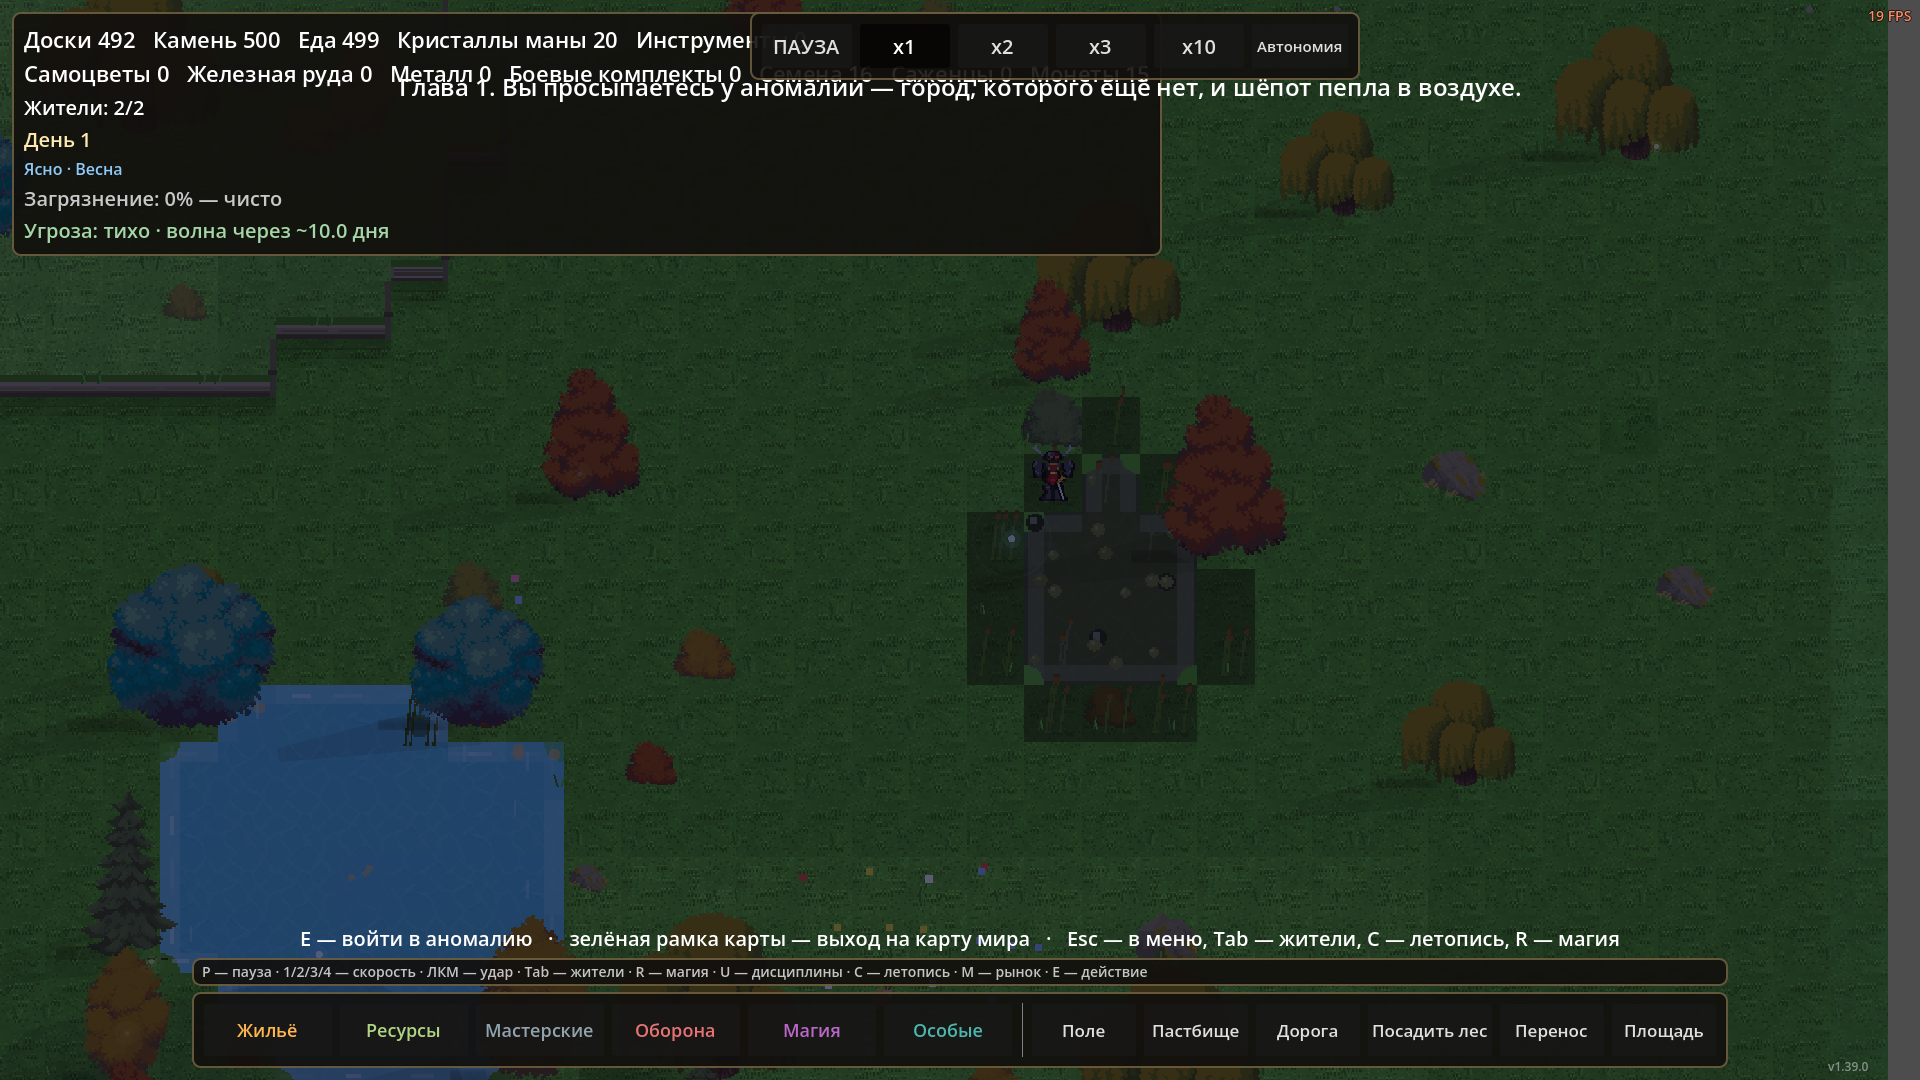
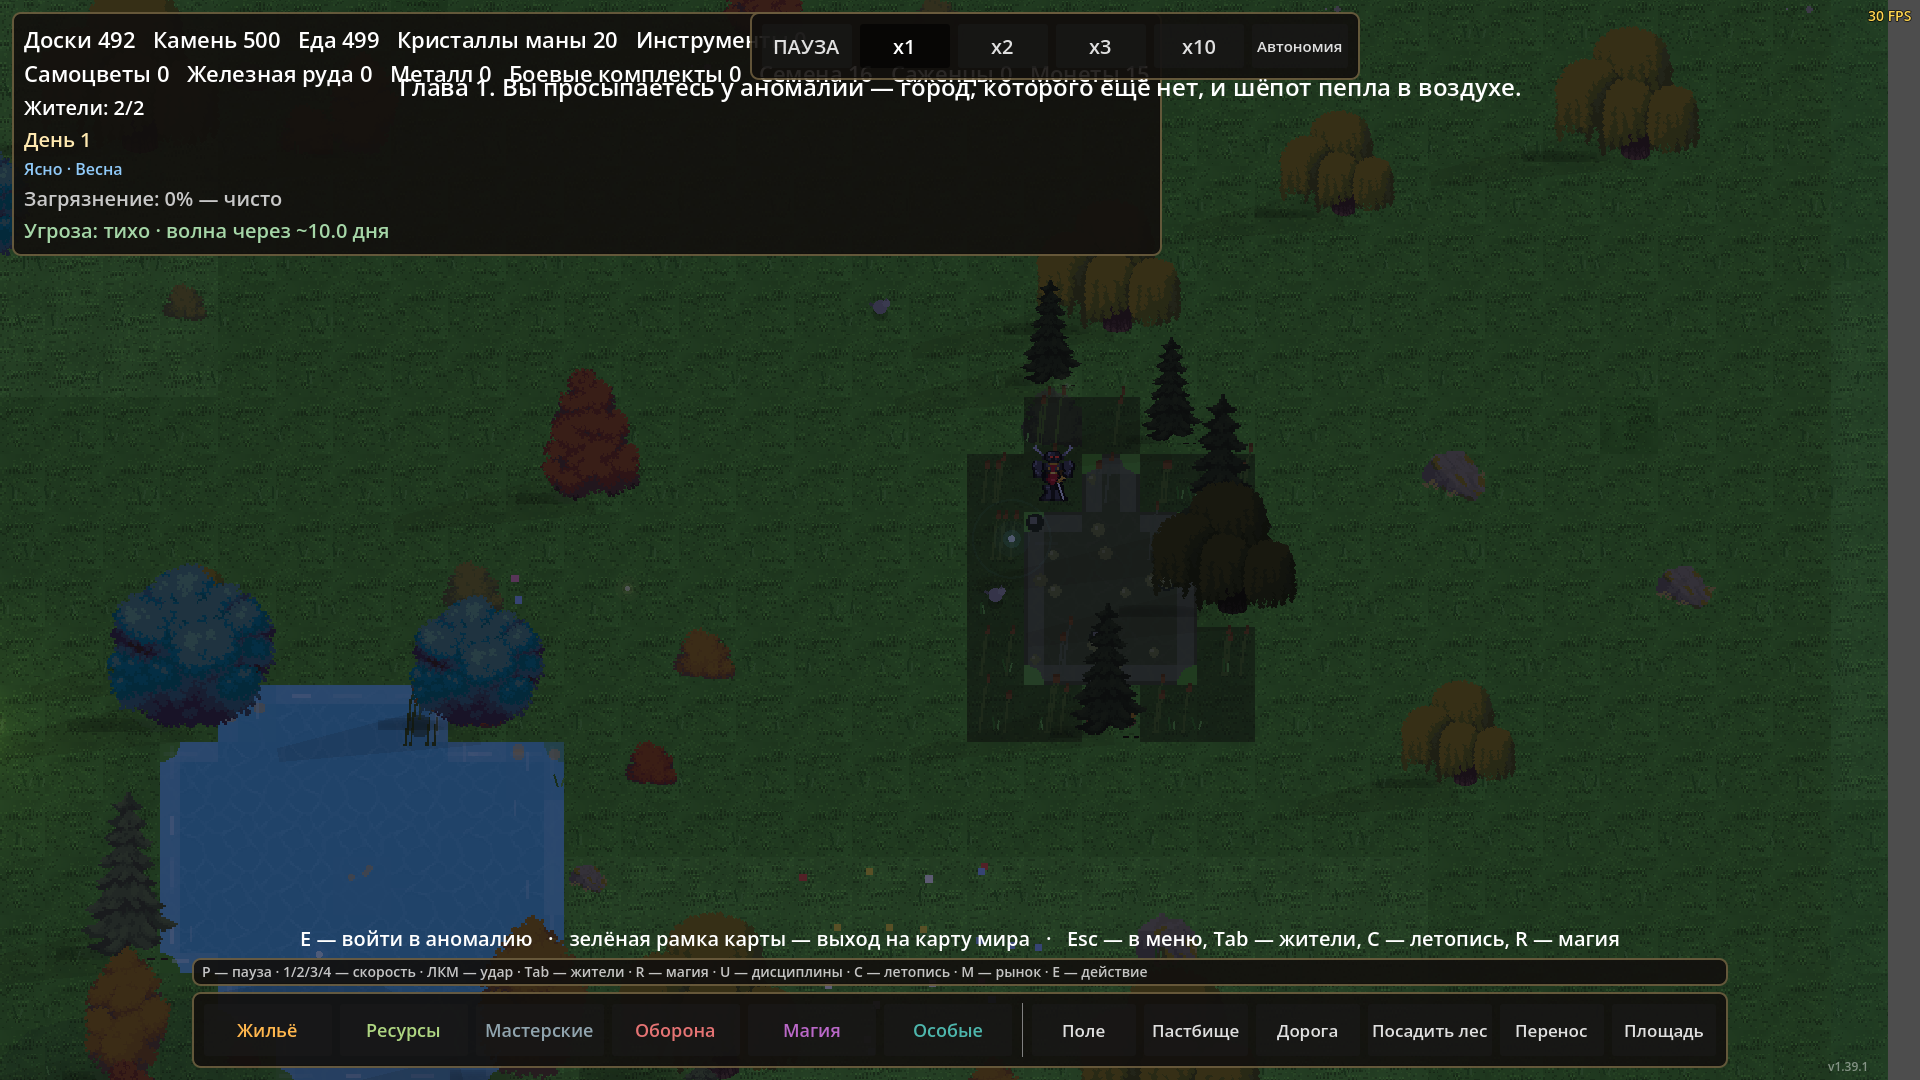
v1.39.2: болото — кольцо тёмной земли сплошное (8 направлений), тёмный лес болот
Фидбек заказчика (скриншот): «болото практически хорошо; тёмная земля
должна полностью окружать болото, и вот такие тёмные деревья должны
расти неподалёку».

- Кольцо тёмной земли СПЛОШНОЕ (water_terrain.gd): проверка соседства
  болота по 8 направлениям вместо 4 — диагональные углы не рвутся.
- Тёмный лес болот: генерация (city_map.gd) сажает деревья с шансом 0.3
  на траве в 1-2 тайлах от воды болота (малые/средние — топь не глушится);
  city_view.gd рендерит деревья у болот тёмными вариантами
  (tree2_dark_pine 80% / tree2_dark_willow 20% — ива/сосна пака
  ForgottenMemories, затемнение x0.55, приглушение, сдвиг в хвойную
  зелень; tools/make_nature2.py). Деревья настоящие (TILE_TREE) —
  рубятся, входят в «гнев леса».
- Тесты: +3 проверки (кольцо полное, лес у болот посажен, тёмные спрайты
  грузятся), полный прогон зелёный (0 FAIL).

Следующий шаг: приёмка «Природы 2.0» целиком; после — этап 2 «Глобальная
карта v2» программы «Мир v2» (PLAN.md, СЛЕДУЮЩИЙ-ШАГ.md).

diff --git a/tools/make_nature2.py b/tools/make_nature2.py
@@ -326,6 +326,27 @@ def build_rock_sprites():
             print("  %s %s" % (name, im.size))
 
 
+def darken(img, mult=0.55, sat=0.65, tint=(0.86, 0.95, 0.82)):
+    """Тёмное болотное дерево: приглушить, затемнить, сдвиг в хвойную
+    зелень (референс заказчика: тёмные деревья у болот)."""
+    a = np.array(img.convert("RGBA"), dtype=float)
+    rgb = a[:, :, :3]
+    gray = rgb @ np.array([0.299, 0.587, 0.114])
+    rgb = gray[:, :, None] + (rgb - gray[:, :, None]) * sat
+    rgb = rgb * mult * np.array(tint)
+    return Image.fromarray(np.dstack([np.clip(rgb, 0, 255), a[:, :, 3:4]]).astype(np.uint8), "RGBA")
+
+
+def build_dark_trees():
+    """Тёмные деревья для окружения болот (v1.39.2): ива и сосна пака,
+    сильно затемнённые и приглушённые."""
+    for src, out in [("tree2_willow", "tree2_dark_willow"),
+                     ("tree2_pine", "tree2_dark_pine")]:
+        im = Image.open(os.path.join(OUT_ENV, src + ".png")).convert("RGBA")
+        darken(im).save(os.path.join(OUT_ENV, out + ".png"))
+        print("  %s.png" % out)
+
+
 # ---------- превью ----------
 def build_preview():
     names = ["n2_water_lake", "n2_water_river", "n2_water_swamp"]
@@ -365,6 +386,8 @@ def main():
         build_rock_sprites()
     else:
         print("Пак скал не найден, пропускаю: %s" % ROCK_PACK)
+    print("Тёмные деревья болот ->")
+    build_dark_trees()
     build_preview()
     print("Готово.")
 

diff --git a/CHANGELOG_E2.md b/CHANGELOG_E2.md
@@ -1201,6 +1201,29 @@ README.md.**
 нижнем углу города) и посмотреть; затем этап 2 «Глобальная карта v2»
 программы «Мир v2» — НОВЫЙ чат.**
 
+## v1.39.2 (2026-10-30): правки приёмки — кольцо тёмной земли у болот сплошное, тёмный лес болот
+
+Фидбек заказчика (скриншот болота): «болото практически хорошо; тёмная
+земля должна полностью окружать болото, и вот такие тёмные деревья
+должны расти неподалёку».
+
+- **Кольцо тёмной земли — СПЛОШНОЕ** (water_terrain.gd): раньше диагональные
+  соседи болота не красились (проверка только по 4 направлениям) — углы
+  рвались; теперь проверка по 8 направлениям, кольцо без разрывов.
+- **Тёмный лес болот** (city_map.gd + city_view.gd + make_nature2.py):
+  - генерация сажает деревья с шансом 0.3 на траве в 1-2 тайлах от воды
+    болота (малые/средние — топь не глушится);
+  - деревья у болота рендерятся ТЁМНЫМИ вариантами (tree2_dark_pine —
+    чаще, tree2_dark_willow — реже; ива/сосна пака, затемнение ×0.55,
+    приглушение, сдвиг в хвойную зелень);
+  - деревья настоящие (TILE_TREE) — рубятся, входят в «гнев леса».
+- Тесты: +3 проверки (кольцо полное, лес у болот посажен, тёмные спрайты
+  грузятся), полный прогон зелёный.
+
+**Файлы: scripts/water_terrain.gd, scripts/city_map.gd, scripts/city_view.gd,
+tools/make_nature2.py, assets/sprites/env/tree2_dark_*.png,
+tests/test_nature2.gd, tests/run_all.gd, data/version.json, README.md.**
+
 ## v1.39.1 (2026-10-30): правки приёмки «Природы 2.0» — гряда-лужайка с каменным обрывом, органическое болото, FPS
 
 Правки по фидбеку заказчика: «скалы понатуральнее… болота квадратная

diff --git a/СЛЕДУЮЩИЙ-ШАГ.md b/СЛЕДУЮЩИЙ-ШАГ.md
@@ -3,8 +3,11 @@
 > Этот файл — первое место, куда смотреть: текущий статус и с чего начать
 > новый чат. Ссылка на него есть в самом верху `README.md`.
 
-## Текущий статус (2026-10-30, «Природа 2.0» v1.39.1, НА ПРИЁМКЕ)
+## Текущий статус (2026-10-30, «Природа 2.0» v1.39.2, НА ПРИЁМКЕ)
 
+- **v1.39.2 — болото: кольцо тёмной земли сплошное (8 направлений,
+  углы не рвутся) + тёмный лес болот (деревья у болот рендерятся
+  тёмными ивой/хвоей, сажаются генерацией; рубятся как лес).**
 - **v1.39.1 — правки приёмки по фидбеку (скалы/болото/фпс).**
   Скалы — по референсам заказчика: ТРАВЯНАЯ ГРЯДА С КАМЕННЫМ ОБРЫВОМ —
   верх лужайка (декор: пучки/цветы/мелкие валуны), юг и восток —

diff --git a/docs/design/10-природа-и-погода.md b/docs/design/10-природа-и-погода.md
@@ -85,7 +85,9 @@
       Свой тон у озера/реки/болота (№112). Кромки per-tile: мель-пояс,
       скругление выпуклых углов, у озера блик у севера и глубина у юга
       (свет СЗ), кувшинки; болото — органическое (та же кромка, кочки/
-      оконца/камыши/ореол земли), не квадратная лужа. Урок: блобы
+      оконца/камыши/ореол земли — КОЛЬЦО сплошное, 8 направлений,
+      v1.39.2), не квадратная лужа; вокруг болот — тёмный лес (деревья
+      сажаются генерацией и рендерятся тёмными ивой/хвоей, v1.39.2). Урок: блобы
       marching-squares разваливались на седловых точках меандра —
       вода без блобов, только per-tile.
     - **Скалы** (`rock_terrain.gd`) — v1.39.1 по референсам заказчика:

diff --git a/README.md b/README.md
@@ -1,4 +1,4 @@
-# Пепел и Мана — v1.39.1
+# Пепел и Мана — v1.39.2
 
 [![Тесты](https://github.com/SDVGames-Studio/pepel-i-mana/actions/workflows/tests.yml/badge.svg)](https://github.com/SDVGames-Studio/pepel-i-mana/actions/workflows/tests.yml)
 
